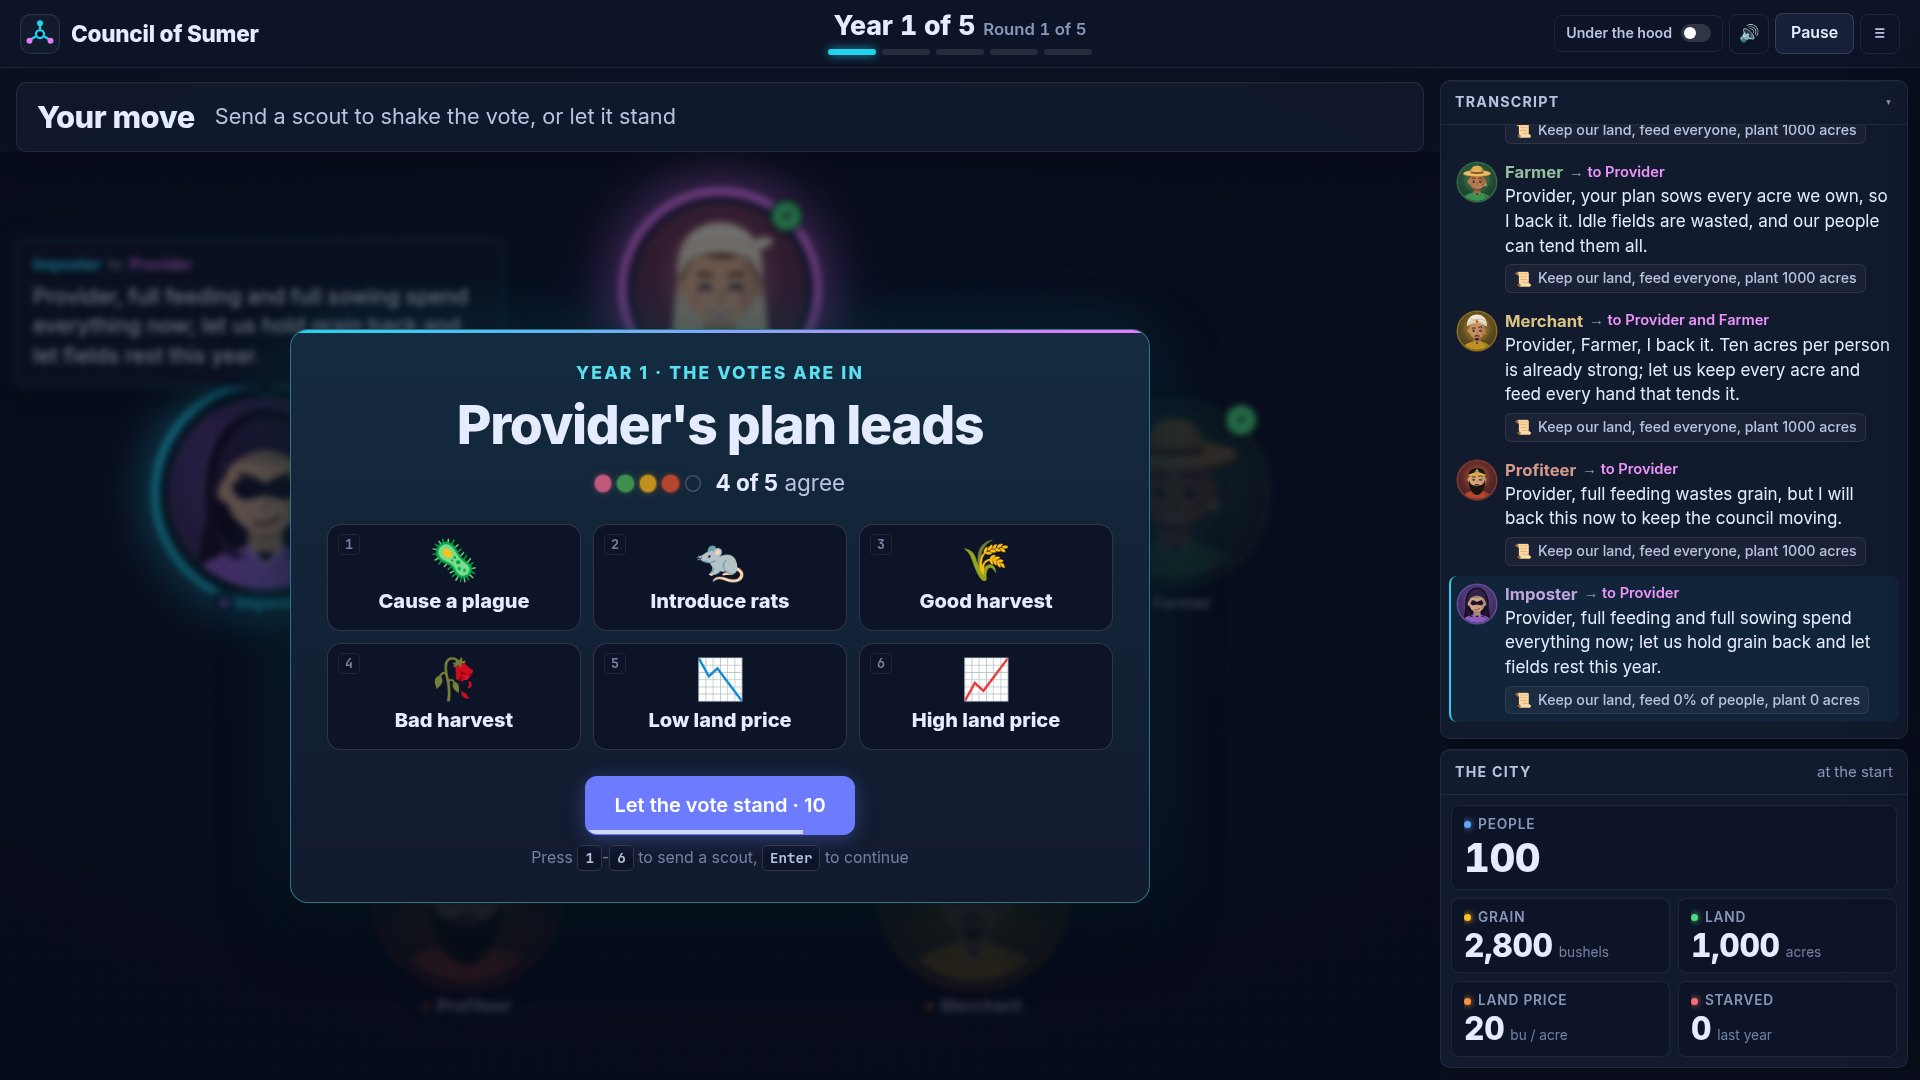
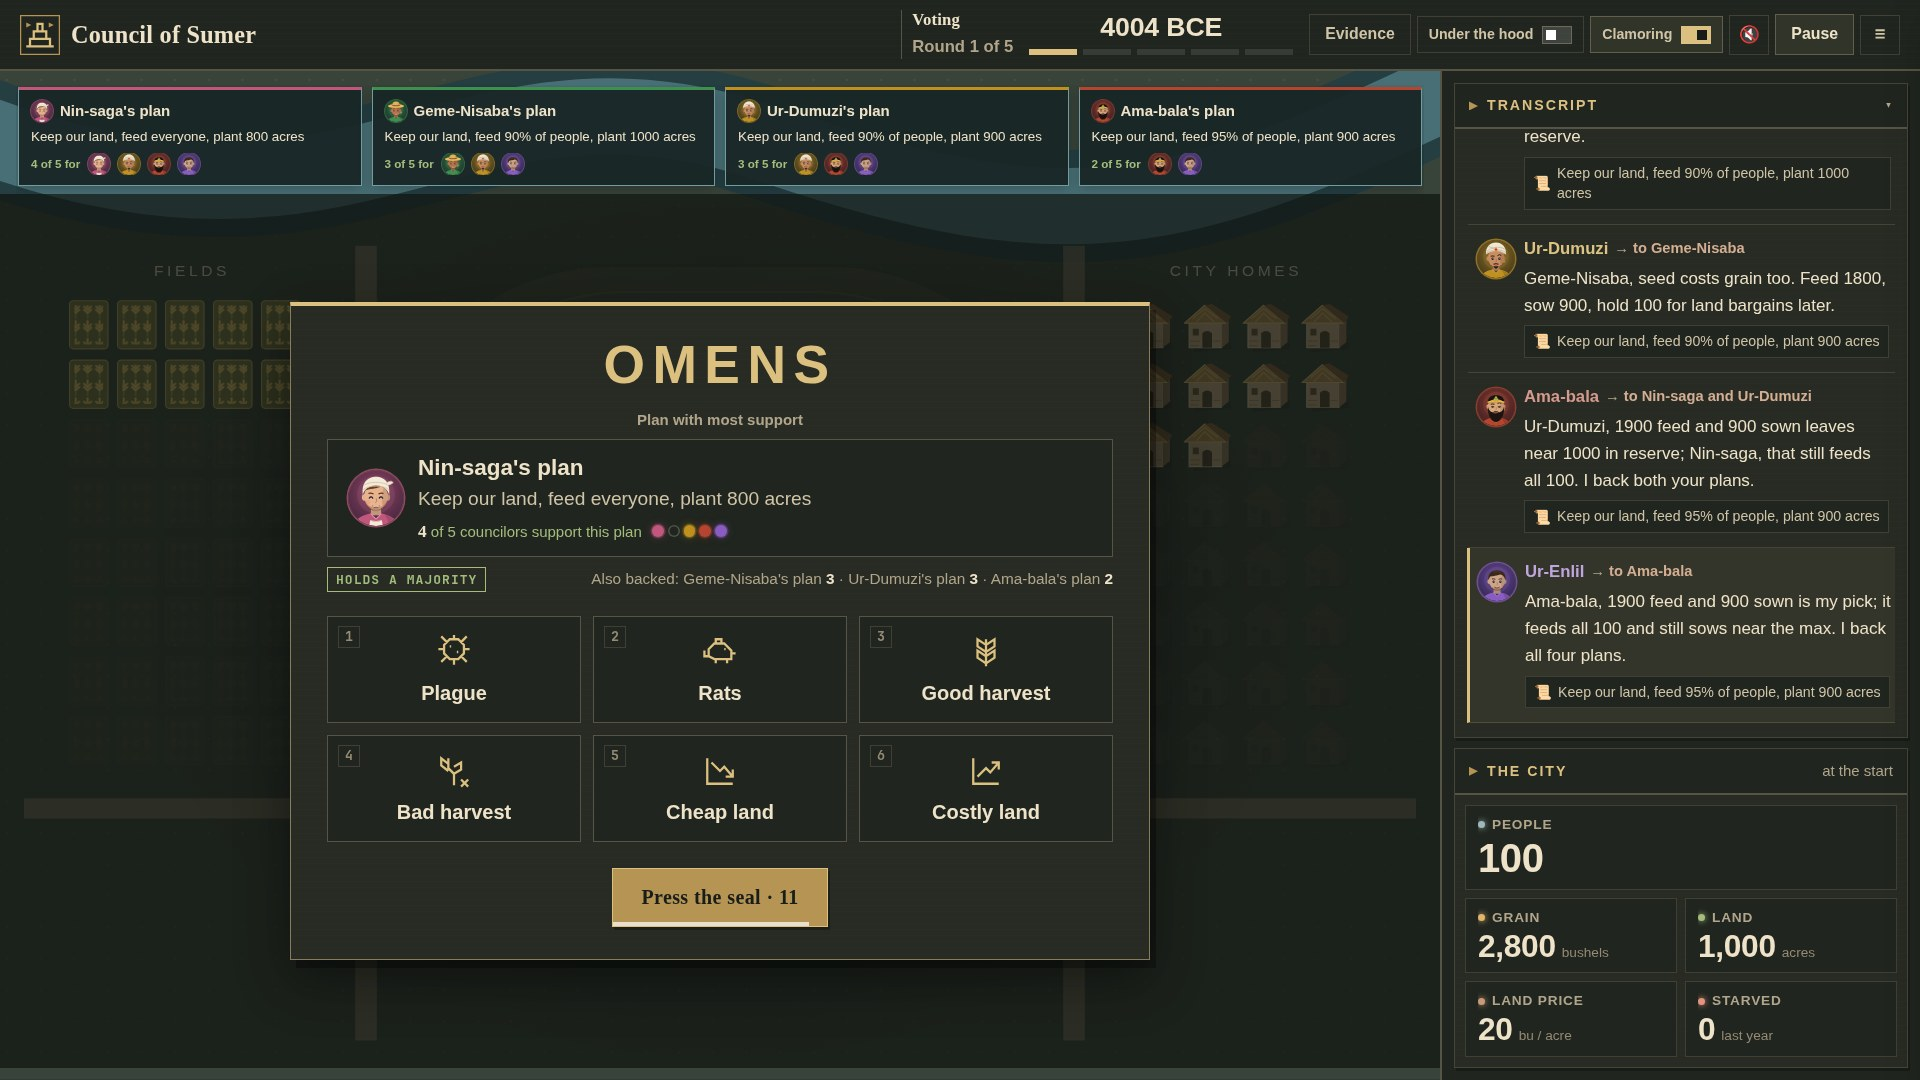
Refresh README screenshots and hush clamoring during human prompts
The debate and omen screenshots showed the old navy UI and retired seats.
Shout bubbles also lingered above the omen dialog; the crowd now goes quiet
on scout requests, runoffs, and deadlocks, and resumes on the next turn.

diff --git a/web/clamor.js b/web/clamor.js
@@ -82,6 +82,11 @@
         break;
       }
       case "year": debating = false; speaker = ""; break;
+      // The crowd hushes while the human decides, and resumes on the next turn.
+      case "scout_request": case "escalate": case "runoff":
+        debating = false; speaker = "";
+        document.querySelectorAll(".cg-shout").forEach(b => b.remove());
+        break;
       default: break;
     }
     schedule();

diff --git a/README.md b/README.md
@@ -15,7 +15,7 @@ one speaker at a time over **AGNTCY SLIM**, then vote. When they deadlock, you d
 **Result:** with the same model and the same 16 cities, the council of five kept 73% of reigns
 (one LLM alone: 56%) and starved 27% fewer people. See [Results](#results).
 
-![The council debating over SLIM](docs/debate.jpg)
+![The council debating over SLIM, with clamoring on](docs/debate.jpg)
 
 Every advisor plays to maximize the city's final score over the whole reign, and each adds
 its own preference on top:
@@ -68,7 +68,7 @@ uv run sumer bench --seeds 16                      # council vs baselines
    announces your omen (ominous for plague, rats, or a bad harvest, excited for good fortune),
    and a tally on the map follows the re-vote. **Press the seal** (or Enter) to let the vote stand.
 
-   ![Your move: send a scout or let the vote stand](docs/scout.jpg)
+   ![Omens: the winning plan, its support, and six omens to shake the vote](docs/scout.jpg)
 3. **Adoption rules**, checked once you let the vote stand:
    - **Consensus**: everyone backs one plan.
    - **Strong majority**: from round 2, a plan with 4 of 5 votes passes; dissent is recorded.
